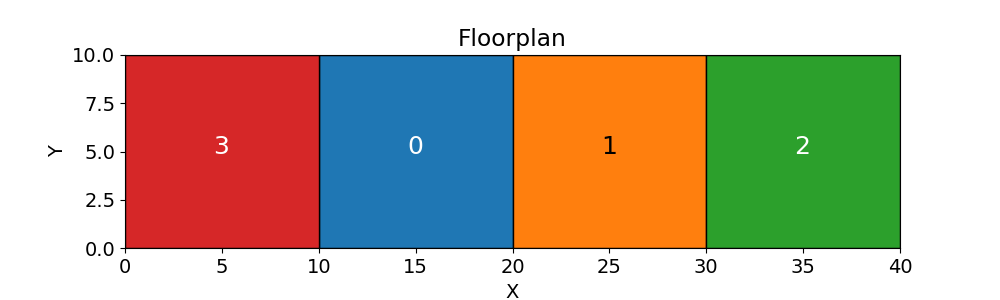
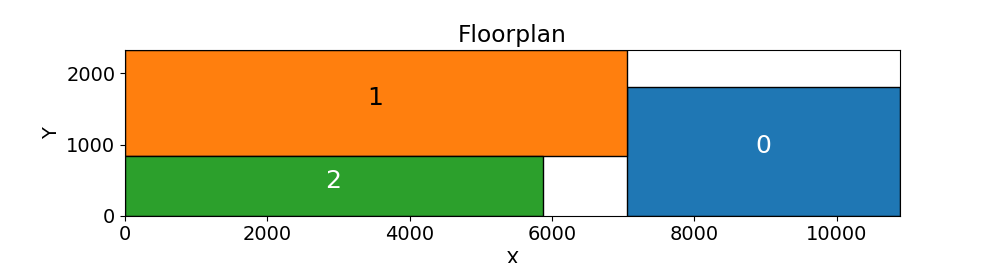
Final

diff --git a/check_if_it_fits.py b/check_if_it_fits.py
@@ -22,7 +22,7 @@ def check_if_bed_contains_valid_rectangles(maximum_bed_width, maximum_bed_height
 
         problem = rps.Problem(rectangles=boxes)
 
-        solution = rps.Solver().solve(problem=problem, width_limit = maximum_bed_width, height_limit = maximum_bed_height, show_progress=True, seed=1111, simanneal_minutes=.001)
+        solution = rps.Solver().solve(problem=problem, width_limit = maximum_bed_width, height_limit = maximum_bed_height, show_progress=False, seed=1111, simanneal_minutes=.001)
         
         if solution.floorplan.bounding_box[0] > maximum_bed_width:
             solution_is_good = False
@@ -33,7 +33,7 @@ def check_if_bed_contains_valid_rectangles(maximum_bed_width, maximum_bed_height
 
         solution_beds.append(solution)
 
-        # rps.Visualizer().visualize(solution=solution, path="./floorplan_limit.png")
+        rps.Visualizer().visualize(solution=solution, path="./floorplan_limit.png")
         
     return solution_is_good
 
